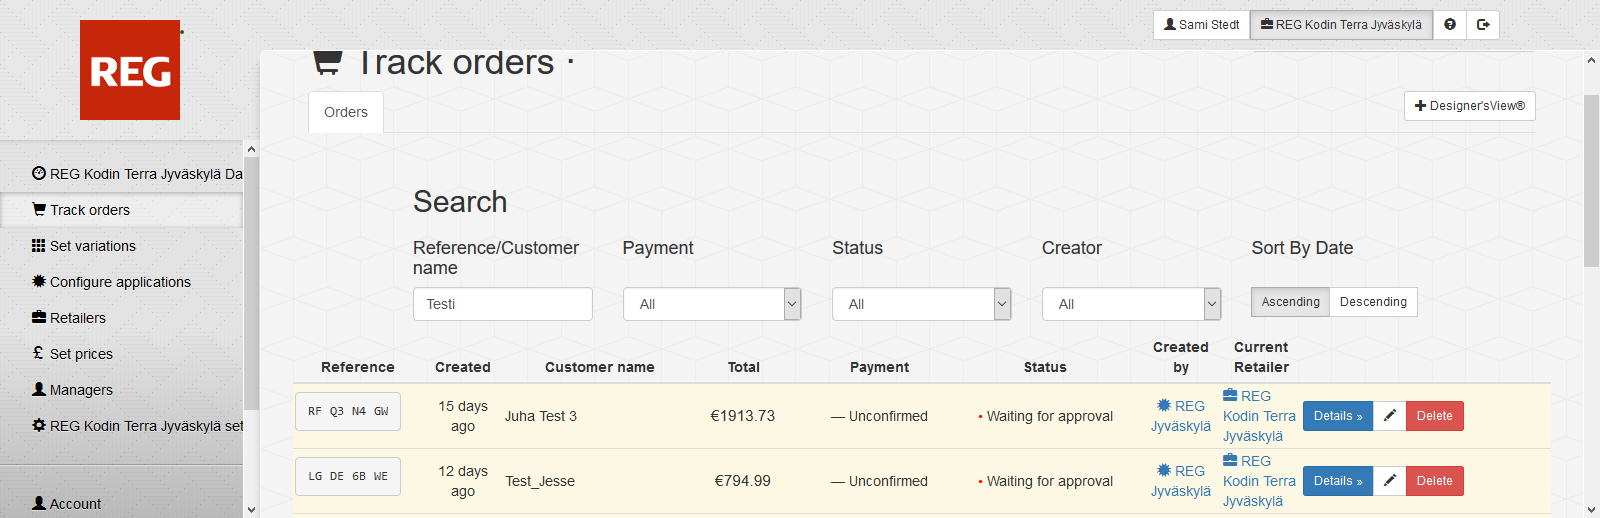
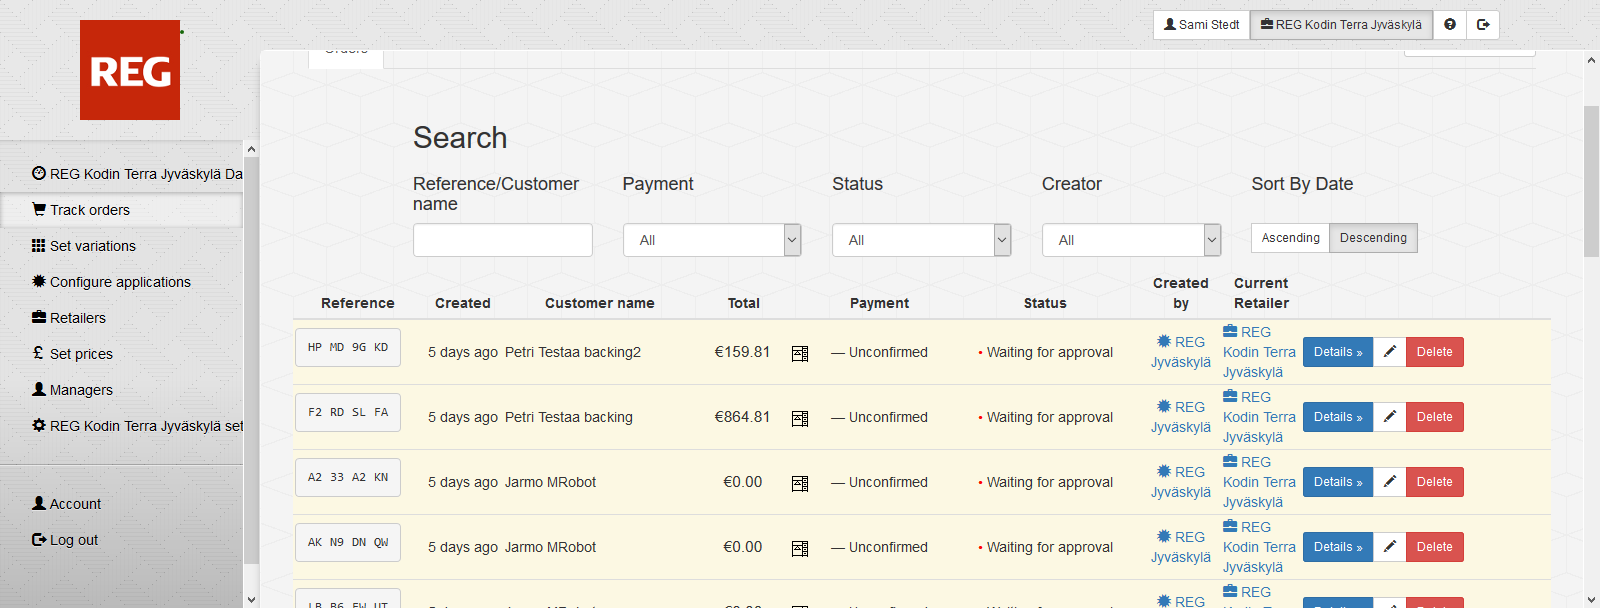
commit

diff --git a/qauto_deco/pagemodel/track_orders.py b/qauto_deco/pagemodel/track_orders.py
@@ -77,9 +77,20 @@ class Track_orders(CommonUtils):
     total_549_e = (By.XPATH, u'//span[contains(text(),"€549.00")]')     # x: 697 y: 472 width: 56 height: 18 # Dynamic object
     reg_kodin_terra_jkl = (By.XPATH, u'//td[9]/a')     # x: 1223 y: 453 width: 73 height: 56 # Dynamic object
     ref_cust_name = (By.XPATH, u'//div[3]/div/input')     # x: 413 y: 287 width: 180 height: 34 # Dynamic object
+    descending = (By.XPATH, u'//button[2]')     # x: 1329 y: 352 width: 89 height: 30 # Dynamic object
+    ascending = (By.XPATH, u'//span/button')     # x: 1251 y: 352 width: 80 height: 30 # Dynamic object
 
     def wait_for_visible_reg_kodin_terra_jkl_linkki(self):
         self.wait_for_visible(self.reg_kodin_terra_jkl)
 
     def type_ref_cust_name(self, parameters=None):
         self.type(self.ref_cust_name, parameters)
+
+    def click_descending(self):
+        self.click(self.descending)
+
+    def click_ascending(self):
+        self.click(self.ascending)
+
+    def wait_for_visible_ascending(self):
+        self.wait_for_visible(self.ascending)

diff --git a/qauto_deco/tests/track_orders_test_set.py b/qauto_deco/tests/track_orders_test_set.py
@@ -36,7 +36,7 @@ class Track_orders_test_set(BaseTest):
         # tarkista order
         self.track_orders.wait_for_visible_reg_kodin_terra_jkl_linkki()
 
-    def test_search_orders_by_filters(self):
+    def test_sort_orders_by_date(self):
         self.open_application.open_application_url(u'http://finndeco.codemen.fi/manage/')
         # syötä username ja password
         self.kauppias_login.syota_userid(self.parameters[u'kauppias_login'][u'user'])
@@ -45,4 +45,8 @@ class Track_orders_test_set(BaseTest):
         self.kauppias_login.klikkaa_login_painiketta()
         # valitse Track orders
         self.kauppias_account.klikkaa_track_orders()
-        #
+        # klikkaa descending
+        self.track_orders.click_descending()
+        self.track_orders.wait_for_visible_ascending()
+        # klikkaa ascending
+        self.track_orders.click_ascending()
